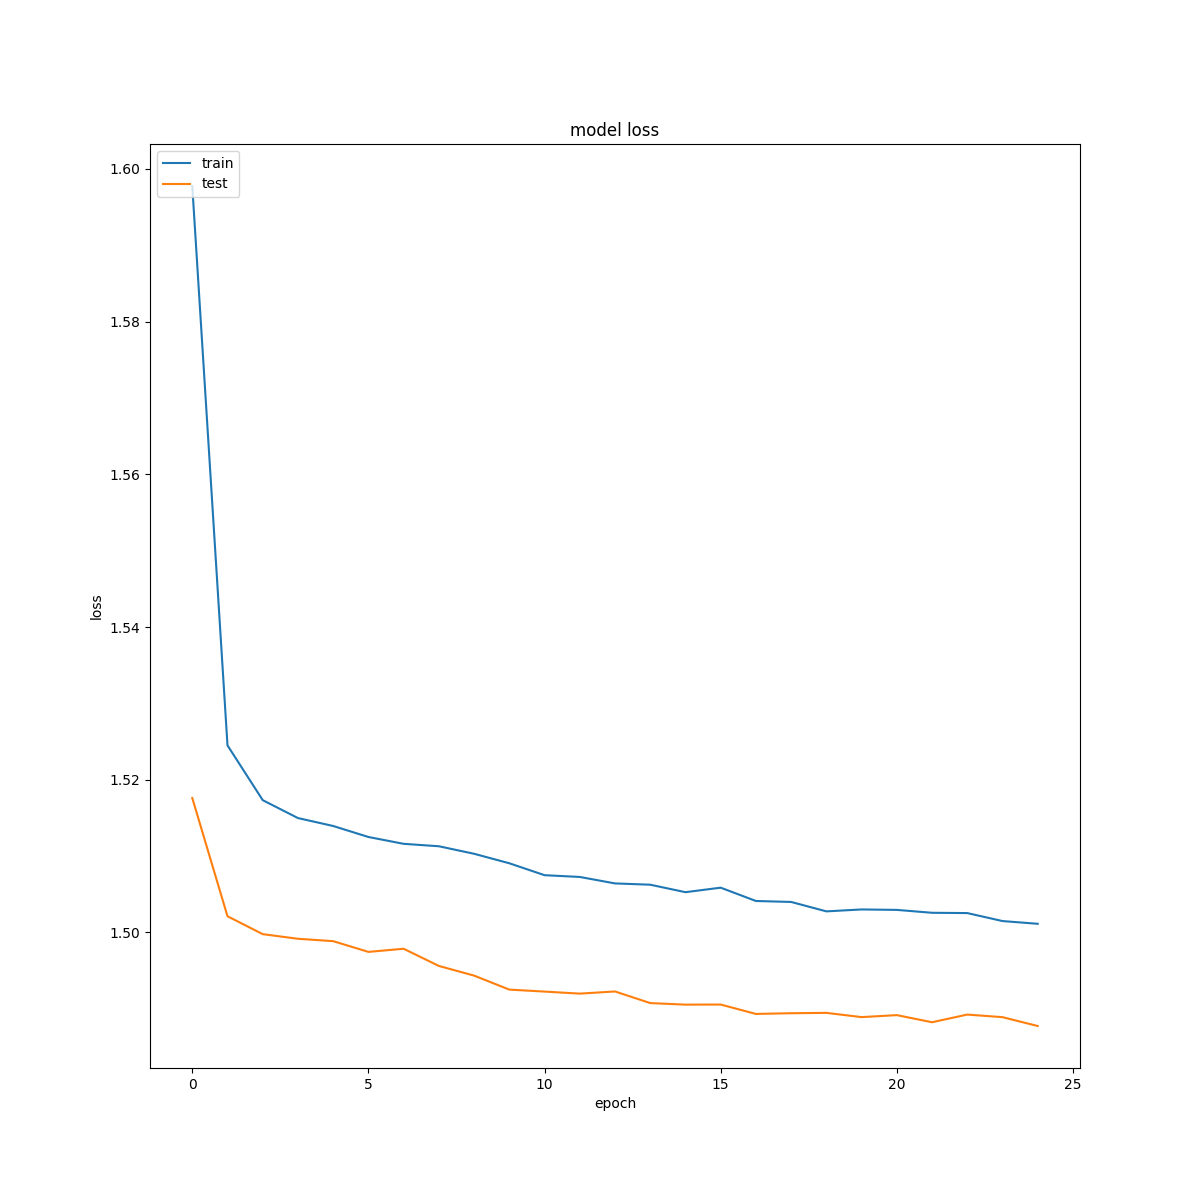
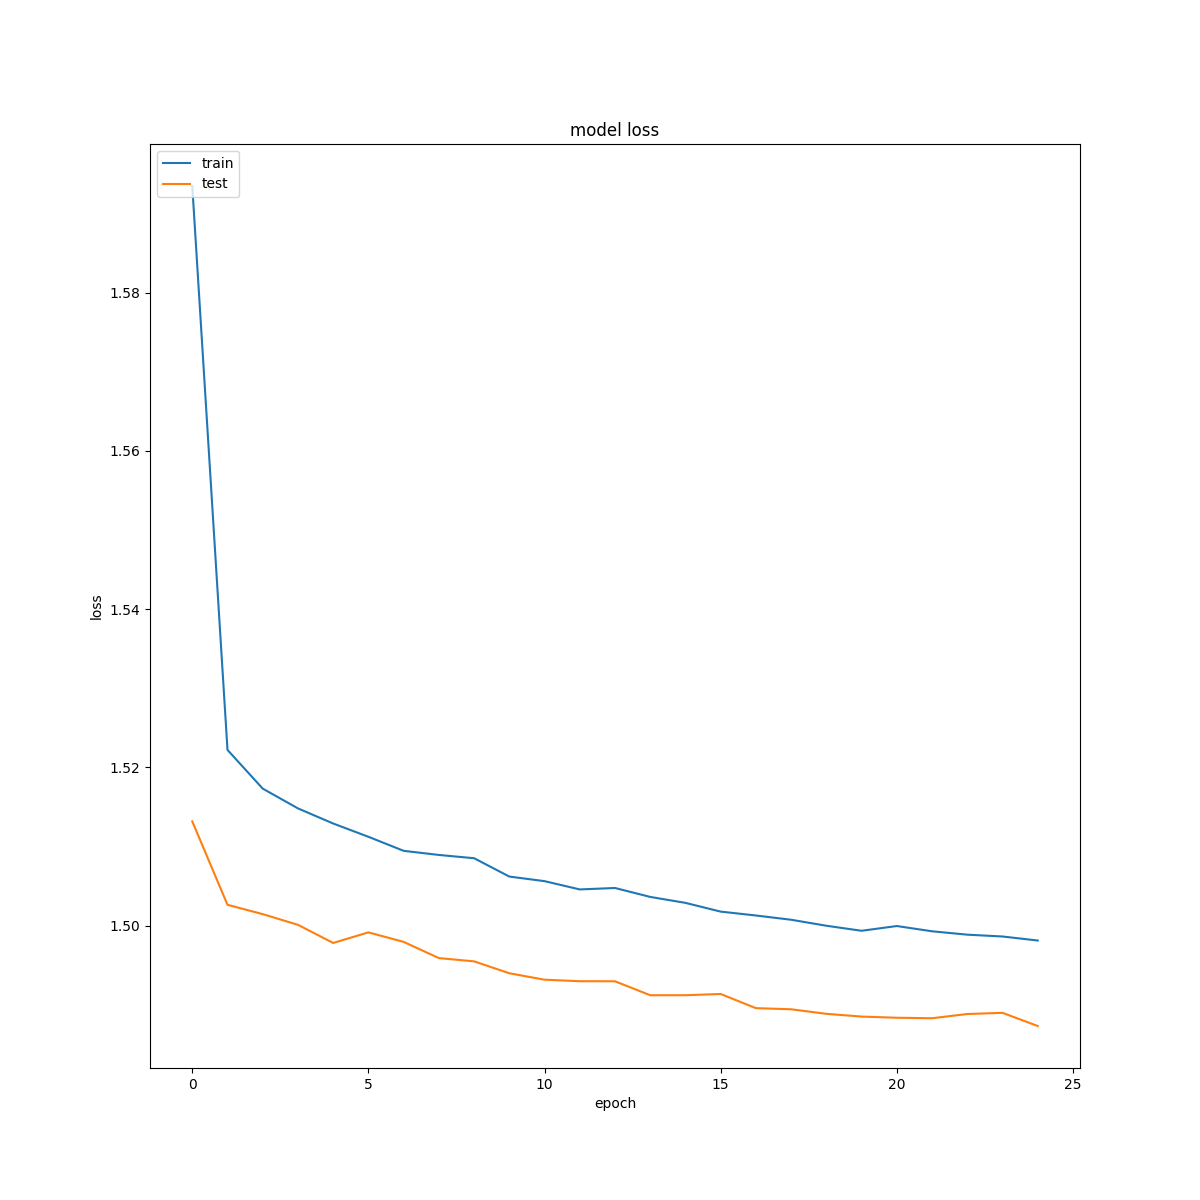
mfa final

diff --git a/model/next_poi_category_prediction_models/gowalla/mfa_rnn.py b/model/next_poi_category_prediction_models/gowalla/mfa_rnn.py
@@ -143,6 +143,8 @@ class MFA_RNN(NNBase):
                                  num_heads=4,
                                  name='Attention')(srnn, srnn)
 
+        distance_duration_matrix = tf.multiply(categories_distance_matrix, categories_durations_matrix)
+
         distance_matrix = categories_distance_matrix
         #distance_matrix = categories_distance_matrix
         #x_distances = self.graph_distances_a(distance_matrix, adjancency_matrix)
@@ -161,6 +163,12 @@ class MFA_RNN(NNBase):
         x_durations = Dropout(0.3)(x_durations)
         x_durations = Flatten()(x_durations)
 
+        distance_duration_matrix = GCNConv(22, activation='swish')([distance_duration_matrix, adjancency_matrix])
+        # x_durations = Dropout(0.5)(x_durations)
+        distance_duration_matrix = GCNConv(10, activation='swish')([distance_duration_matrix, adjancency_matrix])
+        distance_duration_matrix = Dropout(0.3)(distance_duration_matrix)
+        distance_duration_matrix = Flatten()(distance_duration_matrix)
+
         print("at", att.shape)
         # att = Concatenate()([srnn, att])
         att = Flatten()(att)
@@ -169,7 +177,7 @@ class MFA_RNN(NNBase):
         print("gc", x_distances.shape)
         # y_up = tf.matmul(att, x)
         srnn = Flatten()(srnn)
-        y_sup = Concatenate()([srnn, att, x_distances, x_durations])
+        y_sup = Concatenate()([srnn, att, x_distances, x_durations, distance_duration_matrix])
         y_sup = Dropout(0.3)(y_sup)
         y_sup = Dense(location_input_dim, activation='softmax')(y_sup)
         y_cup = Dropout(0.5)(y_cup)

diff --git a/configuration/next_poi_category_prediciton_configuration.py b/configuration/next_poi_category_prediciton_configuration.py
@@ -31,8 +31,7 @@ class NextPoiCategoryPredictionConfiguration:
                                             'stf': CategoricalCrossentropy(),
                                             'next': CategoricalCrossentropy(), 'garg': CategoricalCrossentropy()})
 
-        self.FORMAT_MODEL_NAME = ("format_model_name", {'mfa': 'MFA-RNN', 'serm': 'SERM', 'map': 'MAP', 'stf': 'STF-RNN',
-                                            'next': 'MHSA+PE', 'garg': 'GARG'})
+        self.FORMAT_MODEL_NAME = ("format_model_name", {'mfa': 'POI-RGNN', 'stf': 'STF', 'map': 'MAP', 'serm': 'SERM', 'next': 'MHA+PE', 'garg': 'GARG'})
 
         self.OUTPUT_BASE_DIR = (
         "output_dir", "output/next_poi_category_prediction/", False, "output directory for the poi_categorization")

diff --git a/loader/performance_plots_loader.py b/loader/performance_plots_loader.py
@@ -19,6 +19,16 @@ class PerformancePlotsLoader:
         self.columns = {'users_steps': ['Home', 'Work', 'Other', 'Commuting', 'Amenity', 'Leisure', 'Shop', 'Tourism'],
                         'gowalla': ['Shopping', 'Community', 'Food', 'Entertainment', 'Travel', 'Outdoors', 'Nightlife']}
 
+    def _convert_names(self, names):
+
+        convert_dict = {'mfa': 'POI-RGNN', 'stf': 'STF', 'map': 'MAP', 'serm': 'SERM', 'next': 'MHA+PE', 'garg': 'GARG'}
+
+        for i in range(len(names)):
+
+            names[i] = convert_dict[names[i]]
+
+        return names
+
     def plot_general_metrics(self, report, columns, base_dir):
 
         sns.set_theme('whitegrid')
